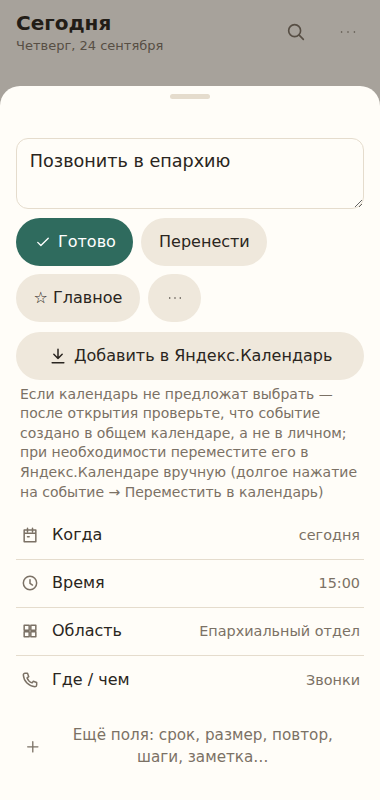
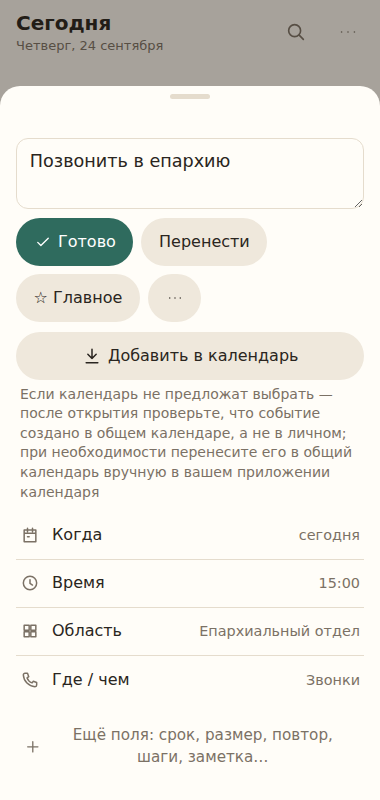
Подсказки календаря без названия конкретного приложения: «выберите ваше приложение календаря»
Яндекс.Календарь в Android не регистрируется как обработчик .ics; файл открывает приложение,
выбранное человеком (обычно Google Календарь). Кнопки — «Добавить в календарь», лист — «Календарь».

Claude-Session: https://claude.ai/code/session_017GKqcB6R2Wkk87CHjqXcBD

Changed region(s): [[0.0579, 0.5625, 0.9263, 0.625], [0.2026, 0.4375, 0.8684, 0.4688], [0.1447, 0.4375, 0.1737, 0.4688]]

diff --git a/docs/js/views/calendar.js b/docs/js/views/calendar.js
@@ -1,4 +1,4 @@
-// Один общий календарь (Яндекс) через файл .ics.
+// Один общий календарь через файл .ics; приложение календаря выбирает человек (обычно Google Календарь).
 // Основной способ — скачивание по НАСТОЯЩЕЙ видимой ссылке <a href="blob:…" download="…">,
 // которую человек нажимает сам. Программный .click() по скрытой ссылке и «Поделиться» файлом
 // по умолчанию не используются: на телефонах (Chrome на Android) первое молча блокируется,
@@ -11,13 +11,13 @@ import * as st from '../store.js';
 import { buildIcs, checkIcs } from '../ics.js';
 import { fmtDay } from '../dates.js';
 
-export const STEPS = 'Файл готов. Смахните шторку уведомлений сверху экрана → нажмите на уведомление о загруженном файле → выберите Яндекс.Календарь';
+export const STEPS = 'Файл готов. Смахните шторку уведомлений сверху экрана → нажмите на уведомление о загруженном файле → выберите ваше приложение календаря';
 export const HINTS = {
-  shared: 'Выберите Яндекс.Календарь в списке приложений.',
-  opened: 'Если вместо календаря началась загрузка: откройте Загрузки → нажмите на файл → выберите Яндекс.Календарь.',
+  shared: 'Выберите ваше приложение календаря в списке приложений.',
+  opened: 'Если вместо календаря началась загрузка: откройте Загрузки → нажмите на файл → выберите ваше приложение календаря.',
   downloaded: STEPS,
 };
-export const CHECK_HINT = 'Если календарь не предложат выбрать — после открытия проверьте, что событие создано в общем календаре, а не в личном; при необходимости переместите его в Яндекс.Календаре вручную (долгое нажатие на событие → Переместить в календарь)';
+export const CHECK_HINT = 'Если календарь не предложат выбрать — после открытия проверьте, что событие создано в общем календаре, а не в личном; при необходимости перенесите его в общий календарь вручную в вашем приложении календаря';
 export const autoCalendar = () => st.settings().autoCalendar !== false;
 export const METHODS = {
   download: 'скачивание по нажатию на ссылку',
@@ -163,7 +163,7 @@ export async function tryMethod(mode, text, name, title = 'Событие') {
  * поэтому загрузку не блокируют ни Chrome, ни Яндекс.Браузер. Нажатие записывается в историю:
  * создан ли blob, было ли нажатие настоящим (isTrusted).
  */
-export function calendarLink(text, name, { label = 'Добавить в Яндекс.Календарь', cls = '.btn.primary.block.big-action', source = '', onDone } = {}) {
+export function calendarLink(text, name, { label = 'Добавить в календарь', cls = '.btn.primary.block.big-action', source = '', onDone } = {}) {
   let url;
   const meta = fileMeta(text, name);
   try {
@@ -205,7 +205,7 @@ export function taskIcs(t, kind) {
   };
 }
 
-/** Лист «Добавить в Яндекс.Календарь»: большая ссылка, после нажатия — шаги. */
+/** Лист «Добавить в календарь»: большая ссылка, после нажатия — шаги. */
 export function calendarSheet(t, { kind, done = false } = {}) {
   const f = taskIcs(t, kind);
   if (!f) return null;
@@ -213,10 +213,10 @@ export function calendarSheet(t, { kind, done = false } = {}) {
   return sheet((api) => h('div',
     h('p.muted', f.title + (t.date ? ' · ' + fmtDay(t.date, st.clock()) + (t.time ? ', ' + t.time : '') : '')),
     shown ? stepsBlock() : null,
-    calendarLink(f.text, f.name, { label: shown ? 'Скачать файл ещё раз' : 'Добавить в Яндекс.Календарь', source: 'sheet', onDone: () => { shown = true; api.refresh(); } }),
+    calendarLink(f.text, f.name, { label: shown ? 'Скачать файл ещё раз' : 'Добавить в календарь', source: 'sheet', onDone: () => { shown = true; api.refresh(); } }),
     h('p.muted.small.cal-hint', CHECK_HINT),
     shown ? h('button.btn.block', { onclick: () => api.close() }, 'Готово') : null,
-  ), { title: 'Яндекс.Календарь' });
+  ), { title: 'Календарь' });
 }
 
 /** Пробная попытка из «Диагностики»: событие-проверка на завтра, 10:00. */

diff --git a/docs/js/views/session.js b/docs/js/views/session.js
@@ -63,7 +63,7 @@ export function openRecordForm() {
     s.refresh();
   }
 
-  // После сохранения — единственное действие: в общий Яндекс.Календарь (его видят оба).
+  // После сохранения — единственное действие: в общий календарь (его видят оба).
   let calDone = null;
   function confirmView() {
     const r = saved;
@@ -75,7 +75,7 @@ export function openRecordForm() {
       calDone ? h('div', { style: { maxWidth: '22rem', marginTop: '1rem' } }, stepsBlock()) : null,
       h('div', { style: { marginTop: '1rem', width: '100%', maxWidth: '22rem' } },
         calendarLink(sessionIcs(r, st.clock()), 'sessiya-' + r.start.date + '.ics', {
-          label: calDone ? 'Скачать файл ещё раз' : 'Добавить в Яндекс.Календарь', source: 'session',
+          label: calDone ? 'Скачать файл ещё раз' : 'Добавить в календарь', source: 'session',
           onDone: () => {
             st.change(() => st.setMeta('recordedSessions', st.meta('recordedSessions', []).map((x) => (x.id === r.id ? { ...x, sent: true } : x))));
             calDone = true;
@@ -210,7 +210,7 @@ export function setupScreen(obj) {
   choose(from + ' просит записывать ему сессии', [
     { label: obj.recordSessions ? 'Включить «Записать сессию»' : 'Выключить', value: true, primary: true },
     { label: 'Не сейчас', value: false },
-  ], { text: 'На экране «Сегодня» появится крупный пункт «Записать сессию»: кто клиент, начало и окончание — и одна кнопка «Добавить в Яндекс.Календарь».' }).then((v) => {
+  ], { text: 'На экране «Сегодня» появится крупный пункт «Записать сессию»: кто клиент, начало и окончание — и одна кнопка «Добавить в календарь».' }).then((v) => {
     if (!v) return;
     const contacts = [...(st.settings().contacts || [])];
     const c = st.contactByName(from);

diff --git a/docs/js/views/settings.js b/docs/js/views/settings.js
@@ -26,7 +26,7 @@ export function openSettings() {
         if (v) st.setSettings({ yearStart: v });
       }),
       h('button.line-btn', { role: 'switch', 'aria-checked': String(cfg.autoCalendar !== false), onclick: () => st.setSettings({ autoCalendar: cfg.autoCalendar === false }) },
-        icon('cal', 20), h('span.grow', 'Автоматически предлагать календарь', h('div.muted.small', 'После сохранения задачи со временем — сразу передать событие в Яндекс.Календарь')), h('span.switch' + (cfg.autoCalendar !== false ? '.on' : ''))),
+        icon('cal', 20), h('span.grow', 'Автоматически предлагать календарь', h('div.muted.small', 'После сохранения задачи со временем — сразу предложить добавить событие в календарь')), h('span.switch' + (cfg.autoCalendar !== false ? '.on' : ''))),
       line('cal', 'Диагностика календаря', diagHistory().length ? String(diagHistory().length) : null, () => calendarDiagSheet()),
       line('lock', 'PIN для закрытых областей', cfg.pinHash ? 'задан' : 'нет', () => pinSheet()),
       line('download', 'Установка на рабочий стол', null, () => installSheet()),

diff --git a/docs/js/views/task.js b/docs/js/views/task.js
@@ -201,7 +201,7 @@ export function openTask(id) {
     const calBox = calFile ? h('div.cal-box',
       calShown ? stepsBlock() : null,
       calendarLink(calFile.text, calFile.name, {
-        label: calShown ? 'Скачать файл ещё раз' : 'Добавить в Яндекс.Календарь', cls: '.btn.block', source: 'task',
+        label: calShown ? 'Скачать файл ещё раз' : 'Добавить в календарь', cls: '.btn.block', source: 'task',
         onDone: () => { calShown = true; s.refresh(); },
       }),
       h('p.muted.small.cal-hint', CHECK_HINT)) : null;

diff --git a/docs/sw.js b/docs/sw.js
@@ -1,5 +1,5 @@
 // Service worker: кэш всего приложения. Данные (IndexedDB) он не трогает.
-const VERSION = 'v8';
+const VERSION = 'v9';
 const CACHE = 'planner-' + VERSION;
 const FILES = [
   './',

diff --git a/README.md b/README.md
@@ -92,7 +92,7 @@ GitHub Pages нужен только для того, чтобы один раз
    начала, по желанию — окончание (в том числе на другой день). **Поле «Клиент» — обычный текст**:
    она пишет человека так, как привыкла его называть (имя, фамилия, как договорились). Никаких
    кодов и инициалов с её стороны не нужно.
-3. **«Сохранить»** → сразу экран с одной крупной кнопкой **«Добавить в Яндекс.Календарь»**.
+3. **«Сохранить»** → сразу экран с одной крупной кнопкой **«Добавить в календарь»**.
    Сессия попадает в общий календарь как «Сессия · А.К.» — с инициалами клиента, без имени.
    Других действий там нет: всё, что с датой и временем, вы видите через общий календарь.
    Если нужна цепочка подготовки, добавьте сессию у себя обычной фразой: «сессия с А.К. в пт в 18».
@@ -120,7 +120,7 @@ GitHub Pages нужен только для того, чтобы один раз
 Один календарь на всё — и семейные дела, и работа, и сессии (из закрытых областей туда уходит
 только слово «Встреча»). Приложение само в Яндекс не пишет и оттуда не читает: из браузера это
 ненадёжно. Вместо этого оно отдаёт телефону файл события `.ics`, а вы открываете его
-Яндекс.Календарём.
+приложением календаря на телефоне (каким именно — см. ниже «Какое приложение откроет файл»).
 
 **Один раз завести календарь (делаете вы сами, на компьютере или в браузере телефона):**
 
@@ -147,18 +147,18 @@ GitHub Pages нужен только для того, чтобы один раз
 - **После сохранения задачи со временем** в сообщении внизу «Добавлено: …» есть ссылка
   **«В календарь»** (рядом с «Отменить», видна 12 секунд).
 - **В карточке любой задачи с датой** (со временем или на весь день) и у задачи со сроком всегда есть
-  кнопка **«Добавить в Яндекс.Календарь»**.
-- **Сессия, записанная ассистентом**, — кнопка «Добавить в Яндекс.Календарь» на экране «Записано».
+  кнопка **«Добавить в календарь»**.
+- **Сессия, записанная ассистентом**, — кнопка «Добавить в календарь» на экране «Записано».
 
 Сразу после нажатия появляется заметный блок:
 «Файл готов. Смахните шторку уведомлений сверху экрана → нажмите на уведомление о загруженном
-файле → выберите Яндекс.Календарь». Если уведомление уже смахнули — файл лежит в «Загрузках».
+файле → выберите ваше приложение календаря». Если уведомление уже смахнули — файл лежит в «Загрузках».
 
 **Проверка на своём телефоне (сделайте один раз, в Chrome и в Яндекс.Браузере):**
 1. Сохраните задачу «проверка завтра в 10» → в сообщении внизу нажмите **«В календарь»**.
 2. Chrome: внизу мелькнёт «Файл скачан» / появится уведомление о загрузке. Яндекс.Браузер: панель
    загрузки внизу или уведомление.
-3. Смахните шторку → нажмите уведомление о файле → выберите Яндекс.Календарь → событие
+3. Смахните шторку → нажмите уведомление о файле → выберите ваше приложение календаря → событие
    «Проверка» на завтра, 10:00. Удалите его.
 4. Если ничего не скачалось — Меню → Настройки → **«Диагностика календаря»** → «Скачать пробный
    файл» → «Скопировать текст» и пришлите этот текст.
@@ -177,19 +177,22 @@ GitHub Pages нужен только для того, чтобы один раз
 
 Под кнопкой всегда есть напоминание: если календарь не предложили выбрать, после открытия
 проверьте, что событие создано в **общем** календаре, а не в личном; при необходимости
-переместите его в Яндекс.Календаре вручную (долгое нажатие на событие → «Переместить в календарь»).
+перенесите его в общий календарь вручную в вашем приложении календаря.
 
-Кнопка **«Добавить в Яндекс.Календарь»** всегда есть в карточке любой задачи с датой (со временем
+Кнопка **«Добавить в календарь»** всегда есть в карточке любой задачи с датой (со временем
 или на весь день) и у задачи со сроком.
 
 **Переключатель «Автоматически предлагать календарь»** (Меню → Настройки, включён сразу).
 Включён — после сохранения задачи со временем в сообщении внизу появляется ссылка «В календарь».
 Выключен — ссылки нет; отправить задачу в календарь можно из карточки задачи →
-**«Добавить в Яндекс.Календарь»**. Задачи без времени сами не предлагаются, но кнопка в карточке
+**«Добавить в календарь»**. Задачи без времени сами не предлагаются, но кнопка в карточке
 у них есть (событие на весь день).
 
-Если Яндекс.Календарь не появляется в списке приложений для файла `.ics`, откройте файл любым
-календарём телефона или загрузите его в веб-версии Яндекс.Календаря (импорт событий из файла).
+**Какое приложение откроет файл.** Подсказки нарочно не называют конкретное приложение:
+Яндекс.Календарь в Android не регистрируется как обработчик файлов `.ics`, поэтому файл открывает
+то приложение календаря, которое есть на телефоне (обычно Google Календарь). Если оно спрашивает,
+в какой календарь добавить событие, выберите общий. Если ни одно приложение файл не принимает,
+загрузите его в веб-версии календаря (импорт событий из файла).
 
 ## 4. Голос и ярлыки
 

diff --git a/DECISIONS.md b/DECISIONS.md
@@ -397,3 +397,12 @@ Chromium отсутствует.
   самое (та же дата, время, срок, область…), эти слова тоже вычитаются; если нашлось что-то новое
   или другое — текст не трогаем. Если в тексте не осталось ничего, задача называется «Без названия»,
   а не всей надиктованной фразой. Все существующие фразы из тестов разбора проходят без изменений.
+
+## Подсказки без названия конкретного календаря
+- Во всех подсказках, на кнопках и на экране «Диагностика календаря» вместо «Яндекс.Календарь» —
+  нейтральное «календарь»: «…→ выберите ваше приложение календаря», «Добавить в календарь», лист
+  «Календарь», «перенесите его в общий календарь вручную в вашем приложении календаря».
+  Причина: Яндекс.Календарь в Android не регистрируется как обработчик `.ics`, файл открывает то
+  приложение, которое выбрал человек (обычно Google Календарь). Раздел README о настройке общего
+  календаря в Яндексе оставлен: сам общий календарь по-прежнему там. Тесты проверяют, что на экране
+  диагностики и в листе после скачивания слова «Яндекс» нет.
